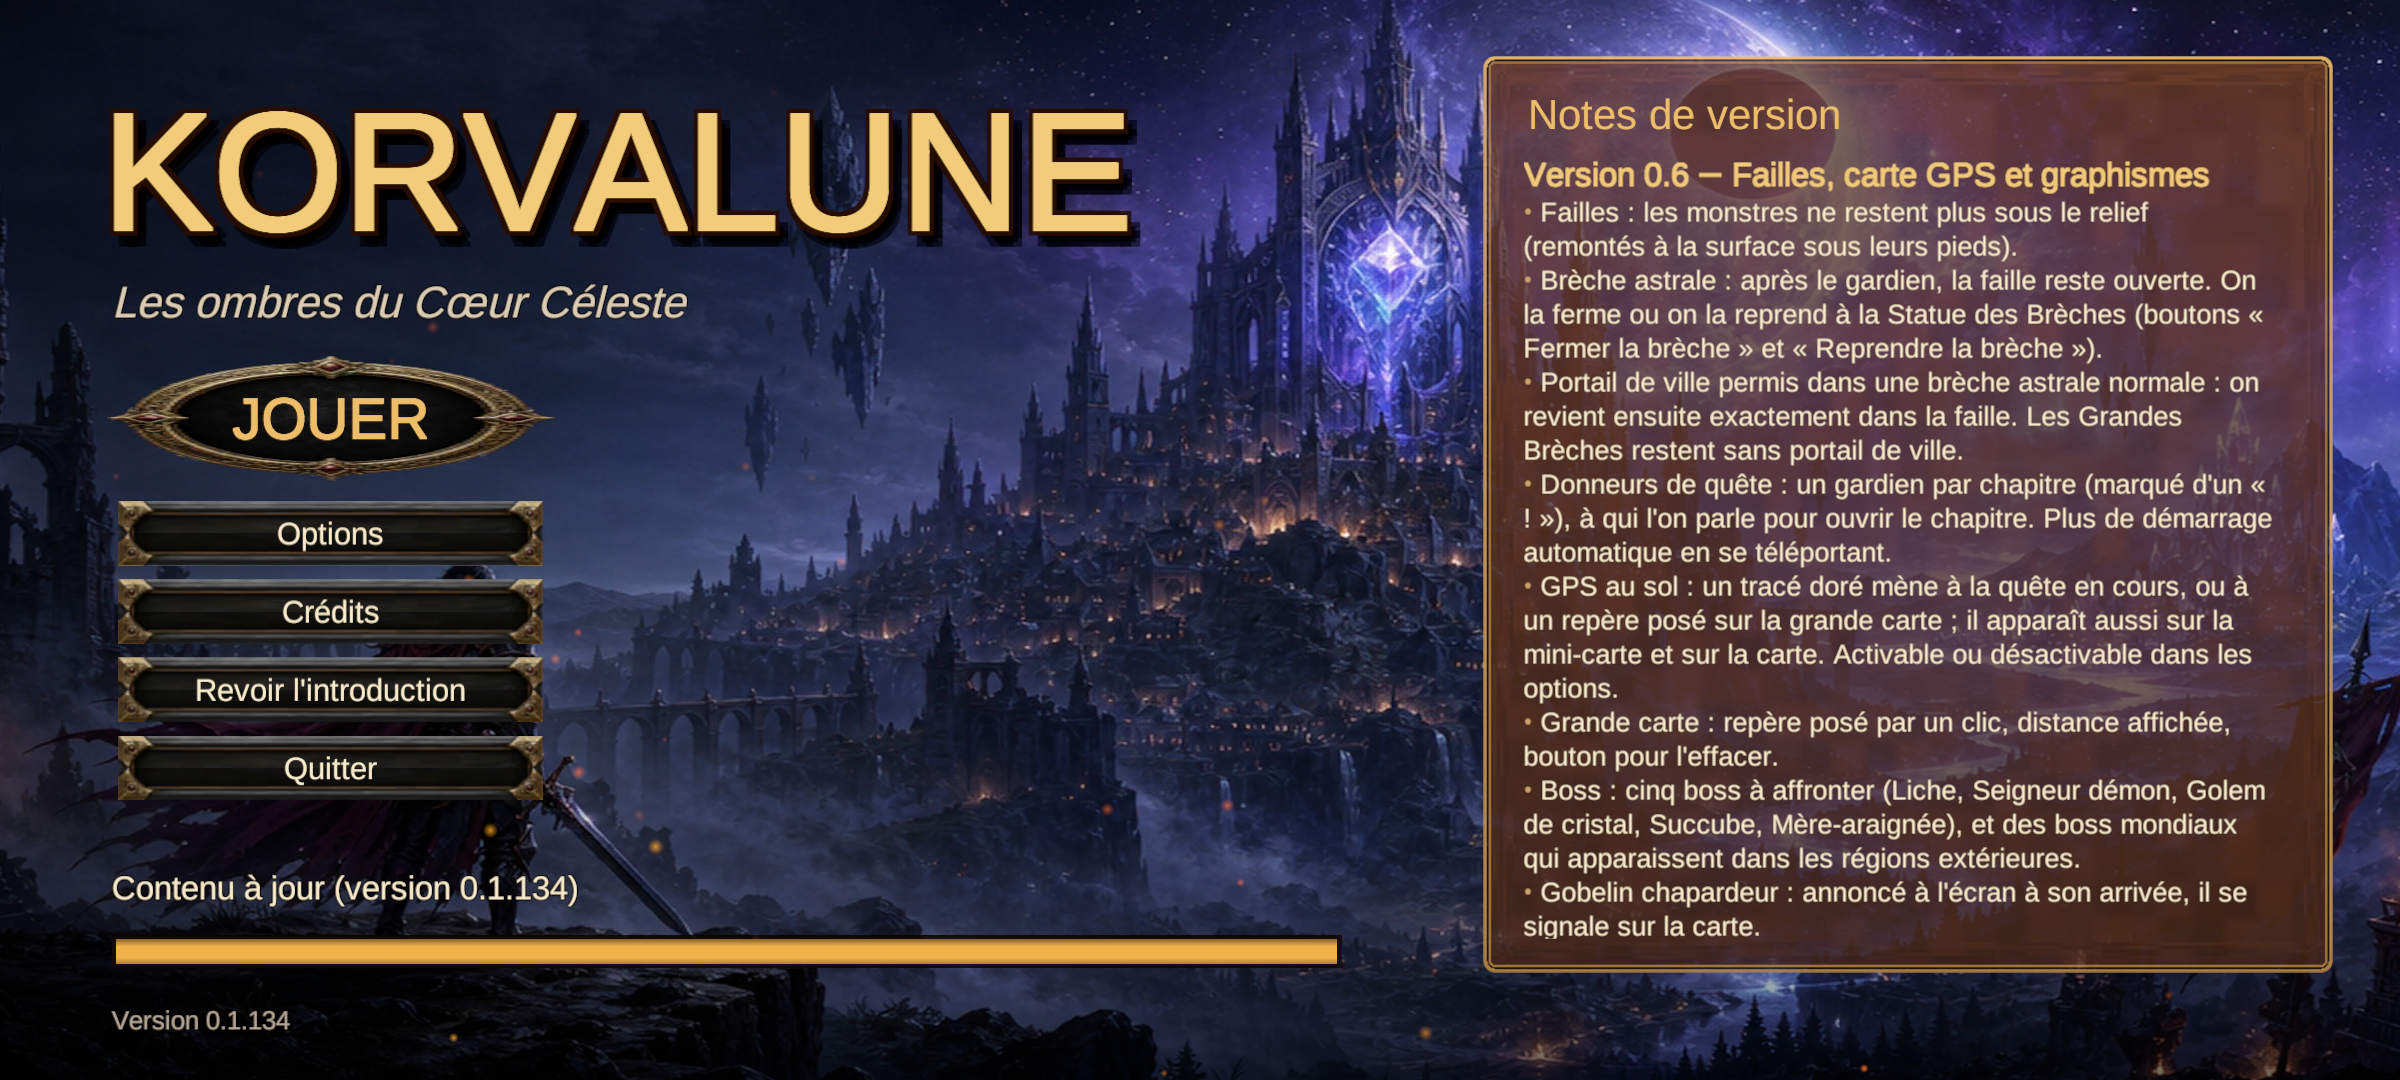
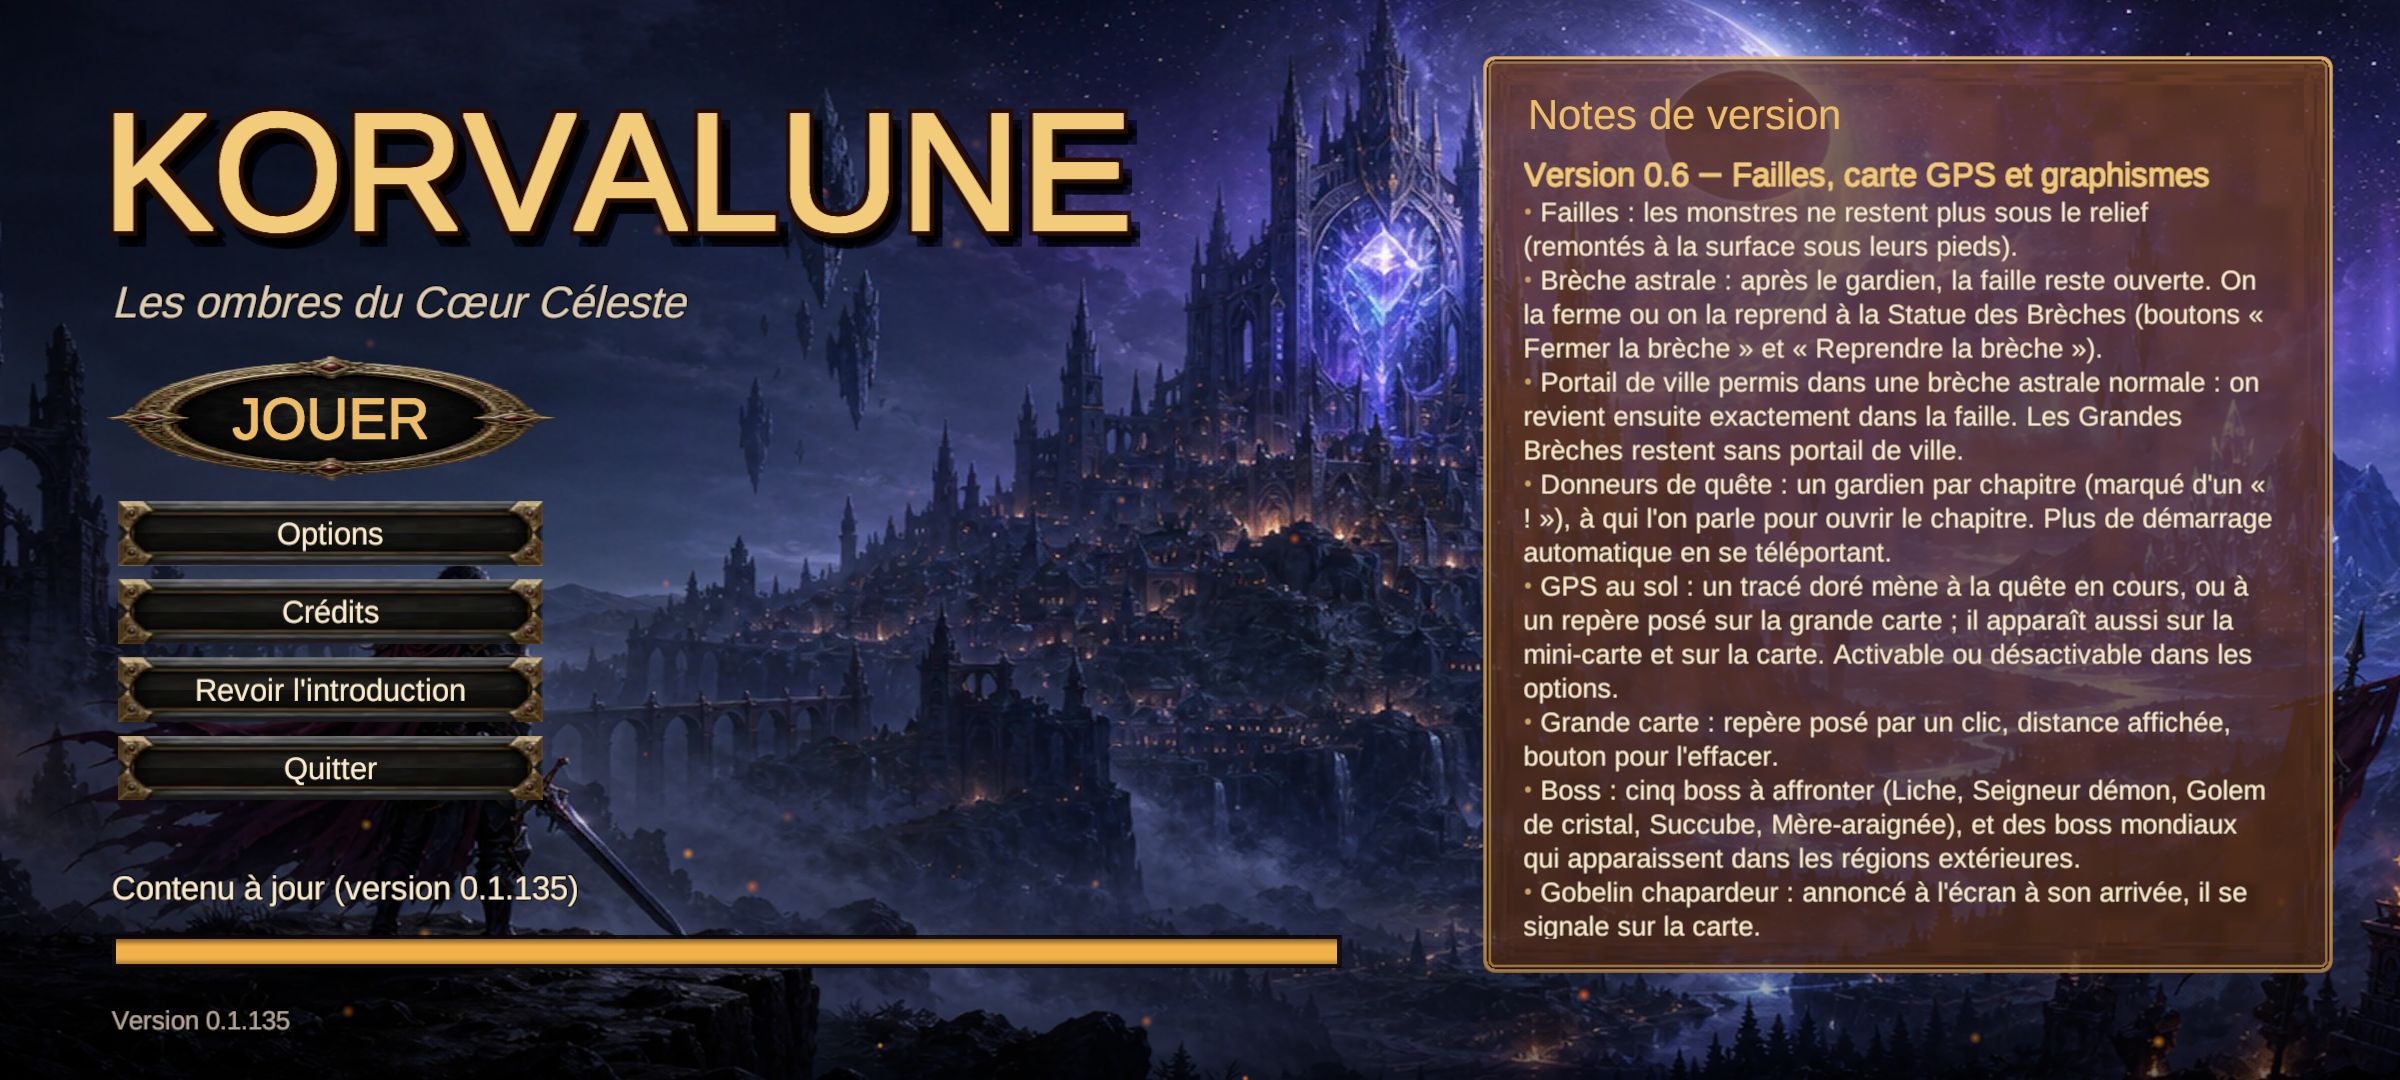
Android : APK construit et testé dans l'émulateur [skip ci]

diff --git a/ci-out/android/build.md b/ci-out/android/build.md
@@ -3,7 +3,7 @@
 - Scènes : Korvalune_Lanceur, Korvalune_Selection, CharacterCreator, Korvalune_Vallee, Korvalune_Crypte, Korvalune_Terriers, Korvalune_Eclipse, Korvalune_Breche, Korvalune_Foret, Korvalune_Desert, Korvalune_Pics, Korvalune_Cote, Korvalune_Marais, Korvalune_Toundra, Korvalune_Volcan, Korvalune_Canyon, Korvalune_Abime, Korvalune_Catacombes
 - Signature : clé Korvalune (mises à jour sans désinstaller)
 - Icône : Assets/Korvalune/Resources/UI/Icone.png
-- Contenu téléchargeable : 100 paquets, 732 Mo (release contenu-134)
+- Contenu téléchargeable : 100 paquets, 732 Mo (release contenu-135)
     - scenes : 156.0 Mo
     - art_catalog_models : 58.3 Mo
     - art_catalog_skins : 34.6 Mo
@@ -16,10 +16,10 @@
     - art_heroes_kaeldraven_f : 17.2 Mo
     - art_heroes_kaeldraven_m : 16.7 Mo
     - art_heroes_tharion_f : 16.7 Mo
-- HybridCLR : génération en 2.4 min
+- HybridCLR : génération en 2.0 min
 - Code mis à jour depuis le jeu : Korvalune.Runtime 677 Ko + 7 métadonnées (9.0 Mo), APK minimal 0
-- Résultat : **Succeeded** en 27.5 min, 0 erreur(s), 12 avertissement(s)
-- APK : 129.4 Mo, version 0.1.134
+- Résultat : **Succeeded** en 21.5 min, 0 erreur(s), 12 avertissement(s)
+- APK : 129.4 Mo, version 0.1.135
 
 ## Contenu empaqueté : 35 Mo
 - Texture2D : 23.5 Mo (296)
@@ -69,46 +69,46 @@
 
 ## Mémoire pendant la construction (dernières mesures)
 ```
-08:46:00 ram 7333/15983 swap 192/16383  5520756 Unity 597604 Unity.ILPP.Runn 
-08:46:05 ram 7367/15983 swap 192/16383  5520756 Unity 597980 Unity.ILPP.Runn 
-08:46:10 ram 7506/15983 swap 192/16383  5520772 Unity 931416 ld.lld 
-08:46:15 ram 7198/15983 swap 192/16383  5520452 Unity 609556 Unity.ILPP.Runn 
-08:46:20 ram 7180/15983 swap 192/16383  5520508 Unity 614844 Unity.ILPP.Runn 
-08:46:25 ram 7464/15983 swap 192/16383  5520508 Unity 2589108 ld.lld 
-08:46:30 ram 7119/15983 swap 192/16383  5520460 Unity 627364 Unity.ILPP.Runn 
-08:46:35 ram 7197/15983 swap 192/16383  5520492 Unity 630476 Unity.ILPP.Runn 
-08:46:40 ram 7337/15983 swap 192/16383  5520480 Unity 630524 Unity.ILPP.Runn 
-08:46:45 ram 7355/15983 swap 192/16383  5520448 Unity 632124 Unity.ILPP.Runn 
-08:46:50 ram 7406/15983 swap 192/16383  5520432 Unity 633260 Unity.ILPP.Runn 
-08:46:55 ram 7637/15983 swap 192/16383  5520420 Unity 633260 Unity.ILPP.Runn 
-08:47:00 ram 7585/15983 swap 192/16383  5520380 Unity 633268 Unity.ILPP.Runn 
-08:47:05 ram 7649/15983 swap 192/16383  5520380 Unity 660432 java 
-08:47:10 ram 7646/15983 swap 192/16383  5520380 Unity 667056 java 
-08:47:15 ram 8051/15983 swap 192/16383  5520296 Unity 1070720 java 
-08:47:20 ram 8056/15983 swap 697/16383  5192248 Unity 1429456 java 
-08:47:26 ram 7970/15983 swap 968/16383  5037200 Unity 1623528 java 
-08:47:31 ram 7807/15983 swap 1076/16383  4927136 Unity 1655512 java 
-08:47:36 ram 7906/15983 swap 1076/16383  4927160 Unity 1767484 java 
-08:47:41 ram 7969/15983 swap 1076/16383  4927168 Unity 1819000 java 
-08:47:46 ram 7908/15983 swap 1183/16383  4817812 Unity 1857100 java 
-08:47:51 ram 7825/15983 swap 1266/16383  4733100 Unity 1865216 java 
-08:47:56 ram 7622/15983 swap 1454/16383  4523784 Unity 1881960 java 
-08:48:01 ram 7053/15983 swap 2082/16383  3918984 Unity 1912392 java 
-08:48:06 ram 7083/15983 swap 2082/16383  3901616 Unity 1915292 java 
-08:48:11 ram 6379/15983 swap 2789/16383  3197292 Unity 1948972 java 
-08:48:16 ram 5761/15983 swap 3440/16383  2539412 Unity 1924732 java 
-08:48:21 ram 5260/15983 swap 3916/16383  2037448 Unity 1885792 java 
-08:48:26 ram 4986/15983 swap 4325/16383  2029748 java 1636656 Unity 
-08:48:31 ram 4622/15983 swap 4592/16383  1995868 java 1391264 Unity 
-08:48:36 ram 4757/15983 swap 4516/16383  1995872 java 1551244 Unity 
-08:48:41 ram 4958/15983 swap 4411/16383  1995872 java 1733600 Unity 
-08:48:46 ram 5212/15983 swap 4141/16383  2016468 Unity 1995872 java 
-08:48:51 ram 5493/15983 swap 3864/16383  2302136 Unity 1995916 java 
-08:48:56 ram 5761/15983 swap 3649/16383  2570316 Unity 1995916 java 
-08:49:01 ram 6018/15983 swap 3651/16383  2772684 Unity 1995924 java 
-08:49:06 ram 4258/15983 swap 3615/16383  2906028 Unity 502812 Unity.ILPP.Runn 
-08:49:12 ram 3802/15983 swap 3285/16383  2829788 Unity 128528 provjobd7551650 
-08:49:17 ram 1102/15983 swap 229/16383  121260 provjobd7551650 104652 Unity 
+09:51:46 ram 7234/15983 swap 242/16383  5569284 Unity 651276 Unity.ILPP.Runn 
+09:51:51 ram 7339/15983 swap 242/16383  5569284 Unity 652180 Unity.ILPP.Runn 
+09:51:56 ram 7387/15983 swap 242/16383  5569288 Unity 653156 Unity.ILPP.Runn 
+09:52:01 ram 7528/15983 swap 242/16383  5569288 Unity 653980 Unity.ILPP.Runn 
+09:52:06 ram 7924/15983 swap 242/16383  5569304 Unity 3011612 ld.lld 
+09:52:11 ram 7512/15983 swap 242/16383  5568900 Unity 1231612 ld.lld 
+09:52:16 ram 7851/15983 swap 315/16383  5530980 Unity 1544824 ld.lld 
+09:52:21 ram 7159/15983 swap 780/16383  5283816 Unity 1863804 ld.lld 
+09:52:26 ram 6501/15983 swap 1297/16383  4763900 Unity 2321816 ld.lld 
+09:52:31 ram 5749/15983 swap 1578/16383  4479156 Unity 480036 Unity.ILPP.Runn 
+09:52:36 ram 5239/15983 swap 2103/16383  3933940 Unity 483568 Unity.ILPP.Runn 
+09:52:41 ram 4735/15983 swap 2594/16383  3426256 Unity 485328 Unity.ILPP.Runn 
+09:52:46 ram 4660/15983 swap 2658/16383  3372028 Unity 470944 Unity.ILPP.Runn 
+09:52:51 ram 4683/15983 swap 2658/16383  3371988 Unity 470952 Unity.ILPP.Runn 
+09:52:56 ram 4908/15983 swap 2658/16383  3372004 Unity 470968 Unity.ILPP.Runn 
+09:53:01 ram 4991/15983 swap 2658/16383  3372012 Unity 471064 Unity.ILPP.Runn 
+09:53:06 ram 5028/15983 swap 2658/16383  3371988 Unity 472712 Unity.ILPP.Runn 
+09:53:11 ram 5190/15983 swap 2658/16383  3372008 Unity 506292 java 
+09:53:16 ram 5209/15983 swap 2658/16383  3372024 Unity 519432 java 
+09:53:21 ram 5470/15983 swap 2658/16383  3372040 Unity 756076 java 
+09:53:27 ram 5426/15983 swap 2658/16383  3369512 Unity 763056 java 
+09:53:32 ram 5800/15983 swap 2658/16383  3365272 Unity 1136024 java 
+09:53:37 ram 6083/15983 swap 2658/16383  3365144 Unity 1311832 java 
+09:53:42 ram 6156/15983 swap 2658/16383  3365152 Unity 1458836 java 
+09:53:47 ram 6258/15983 swap 2658/16383  3365124 Unity 1596704 java 
+09:53:52 ram 6322/15983 swap 2658/16383  3365124 Unity 1636724 java 
+09:53:57 ram 6452/15983 swap 2658/16383  3365132 Unity 1661156 java 
+09:54:02 ram 6311/15983 swap 2658/16383  3365140 Unity 1660708 java 
+09:54:07 ram 6407/15983 swap 2658/16383  3365144 Unity 1688844 java 
+09:54:12 ram 6448/15983 swap 2658/16383  3365144 Unity 1719200 java 
+09:54:17 ram 6651/15983 swap 2658/16383  3365056 Unity 1882612 java 
+09:54:22 ram 6690/15983 swap 2658/16383  3363032 Unity 1899068 java 
+09:54:27 ram 6839/15983 swap 2658/16383  3363032 Unity 2034412 java 
+09:54:32 ram 6859/15983 swap 2658/16383  3362128 Unity 2065584 java 
+09:54:37 ram 6660/15983 swap 2656/16383  3366020 Unity 1920196 java 
+09:54:42 ram 6723/15983 swap 2638/16383  3433560 Unity 1920292 java 
+09:54:47 ram 5357/15983 swap 2587/16383  3473232 Unity 630148 Unity.ILPP.Runn 
+09:54:52 ram 4574/15983 swap 2295/16383  3333396 Unity 133040 provjobd8343379 
+09:54:57 ram 1309/15983 swap 242/16383  133372 provjobd8343379 98068 Runner.Worker 
+09:55:02 ram 1169/15983 swap 242/16383  134228 provjobd8343379 98128 Runner.Worker 
 ```
 ## Noyau (OOM)
 ```

diff --git a/ci-out/android/test.md b/ci-out/android/test.md
@@ -23,8 +23,6 @@
     [Korvalune][test] chargement 90 %
     [Korvalune][test] chargement 90 %
     [Korvalune][test] chargement 90 %
-    [Korvalune][test] chargement 90 %
-    [Korvalune][test] chargement 90 %
 - ⚠ Partie automatique inachevée (voir partie.txt)
 - ✅ Aucun plantage dans le journal
 - Erreurs Unity dans le journal : 0
